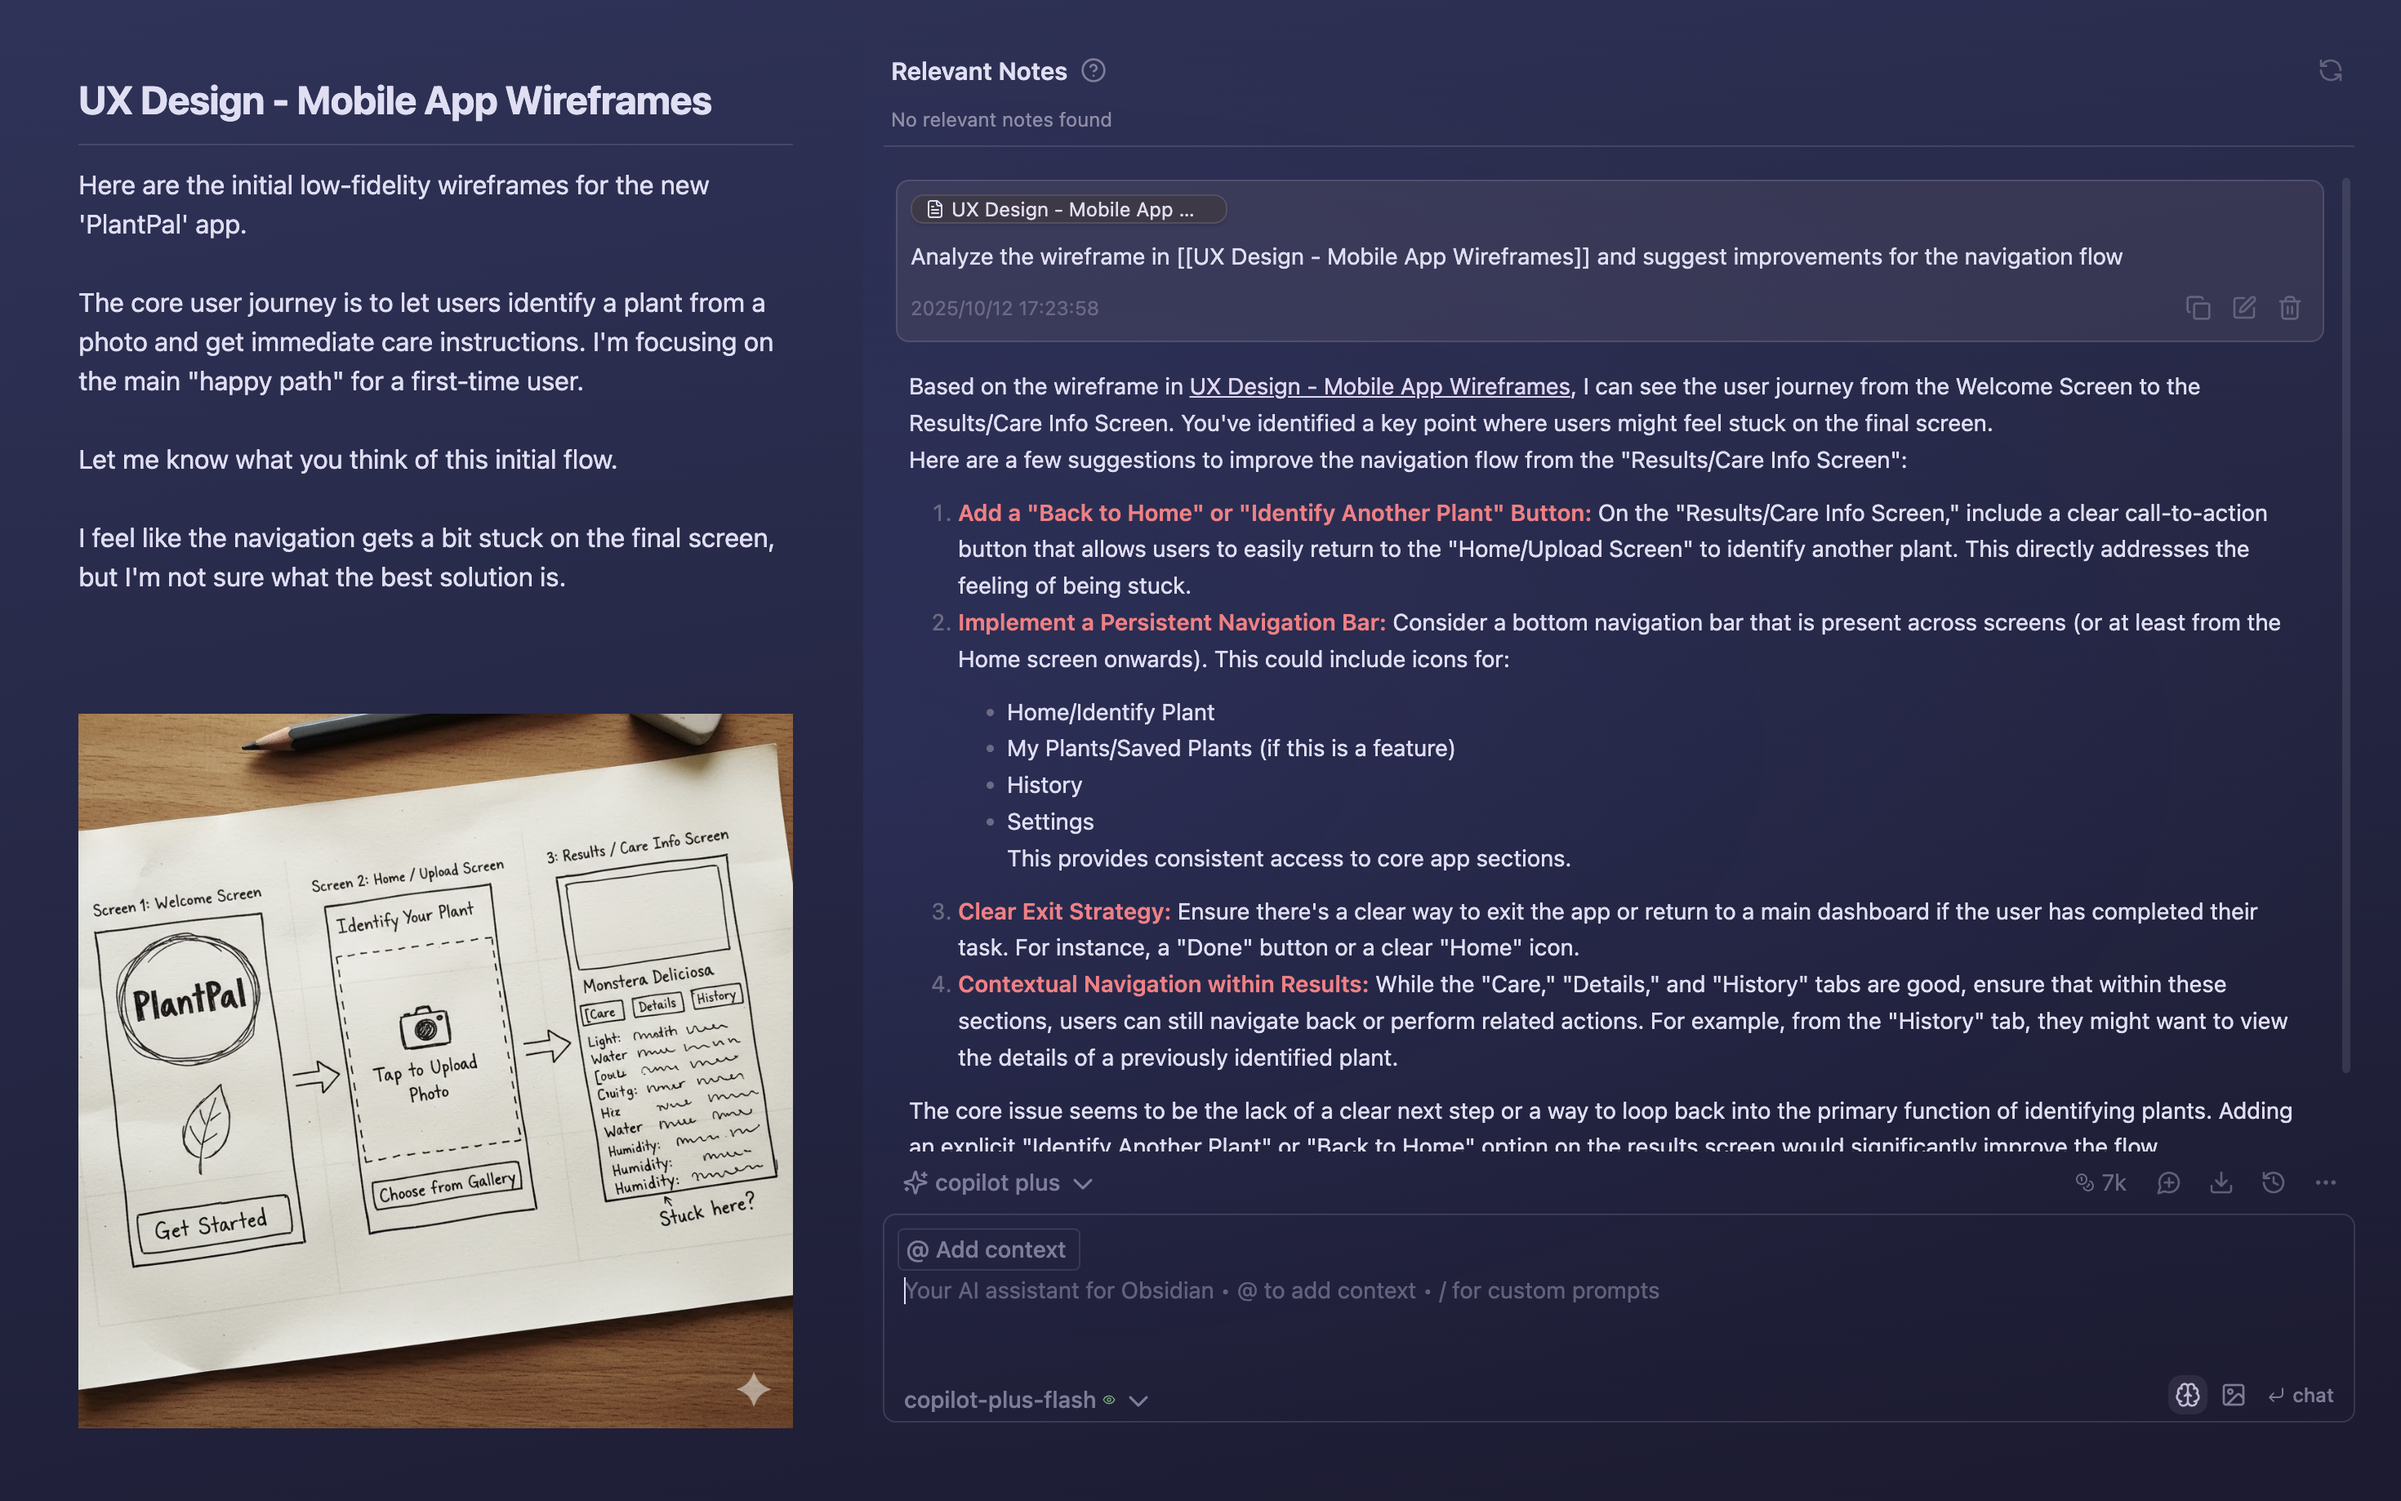
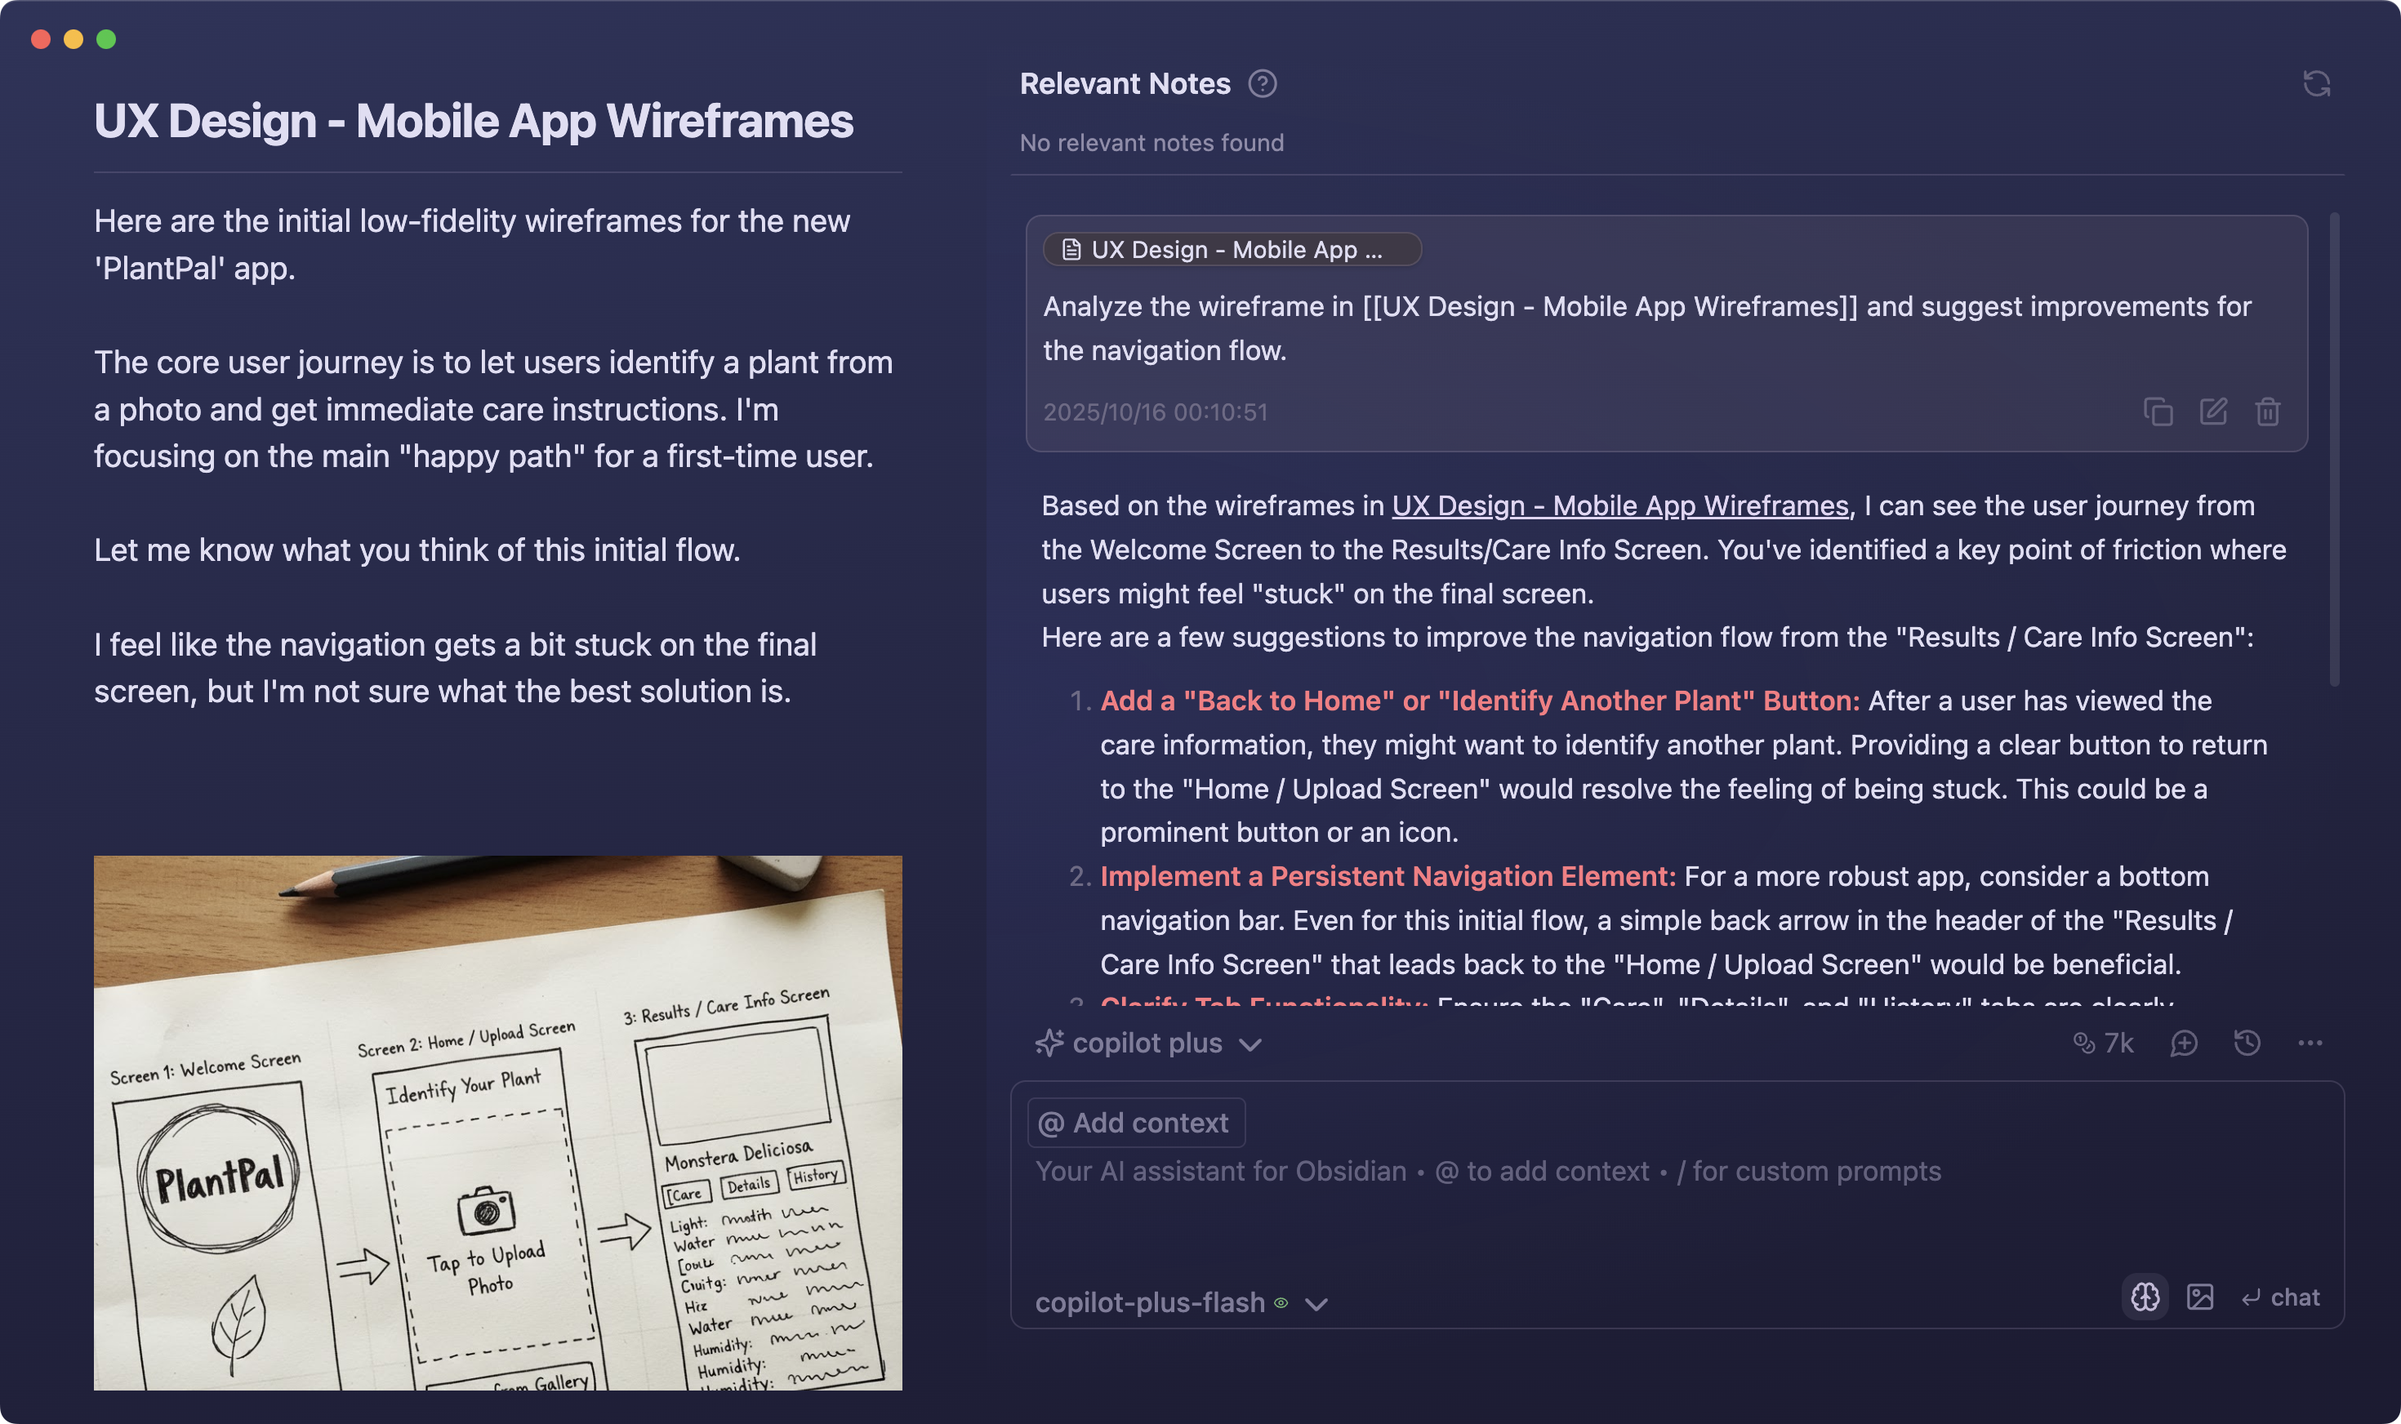
replace screenshots with bigger texts; add table of contents for usage section

diff --git a/README.md b/README.md
@@ -41,7 +41,7 @@ Copilot for Obsidian is your ultimate in‑vault AI assistant with chat-based va
   <em>Copilot's Agent can call the proper tools on its own upon your request.</em>
 </p>
 <p align="center">
-  <img src="./images/product-ui-screenshot.jpeg" alt="Product UI screenshot" width="800"/>
+  <img src="./images/product-ui-screenshot.png" alt="Product UI screenshot" width="800"/>
 </p>
 
 ## Table of Contents
@@ -93,6 +93,18 @@ Read the [Changelog](https://github.com/logancyang/obsidian-copilot/releases/tag
 2. Go to **Obsidian → Settings → Copilot → Basic** and paste the key into in the **Copilot Plus** card.
 
 ## Usage
+
+### Table of Contents
+- [Free User](#free-user)
+  - [Chat Mode](#chat-mode-reference-notes-and-discuss-ideas-with-copilot)
+  - [Vault QA Mode](#vault-qa-mode-chat-with-your-entire-vault)
+  - [Command Palette](#copilots-command-palette)
+  - [Relevant Notes](#relevant-notes-notes-suggestions-based-on-semantic-similarity-and-links)
+- [Copilot Plus/Believer](#copilot-plusbeliever)
+  - [Time-Based Queries](#get-precision-insights-from-a-specific-time-window)
+  - [Agent Mode](#agent-mode-autonomous-tool-calling)
+  - [Image Understanding](#understand-images-in-your-notes)
+  - [Multi-Source Analysis](#one-prompt-every-sourceinstant-summaries-from-pdfs-videos-and-web)
 
 ### Free User
 
@@ -160,6 +172,7 @@ Create commands and workflows in `Settings → Copilot → Command → Add Cmd`.
 </p>
 
 **Command Palette in Chat**
+
 Type `/` to use Command Palette in chat window.
 
 <p align="center">
